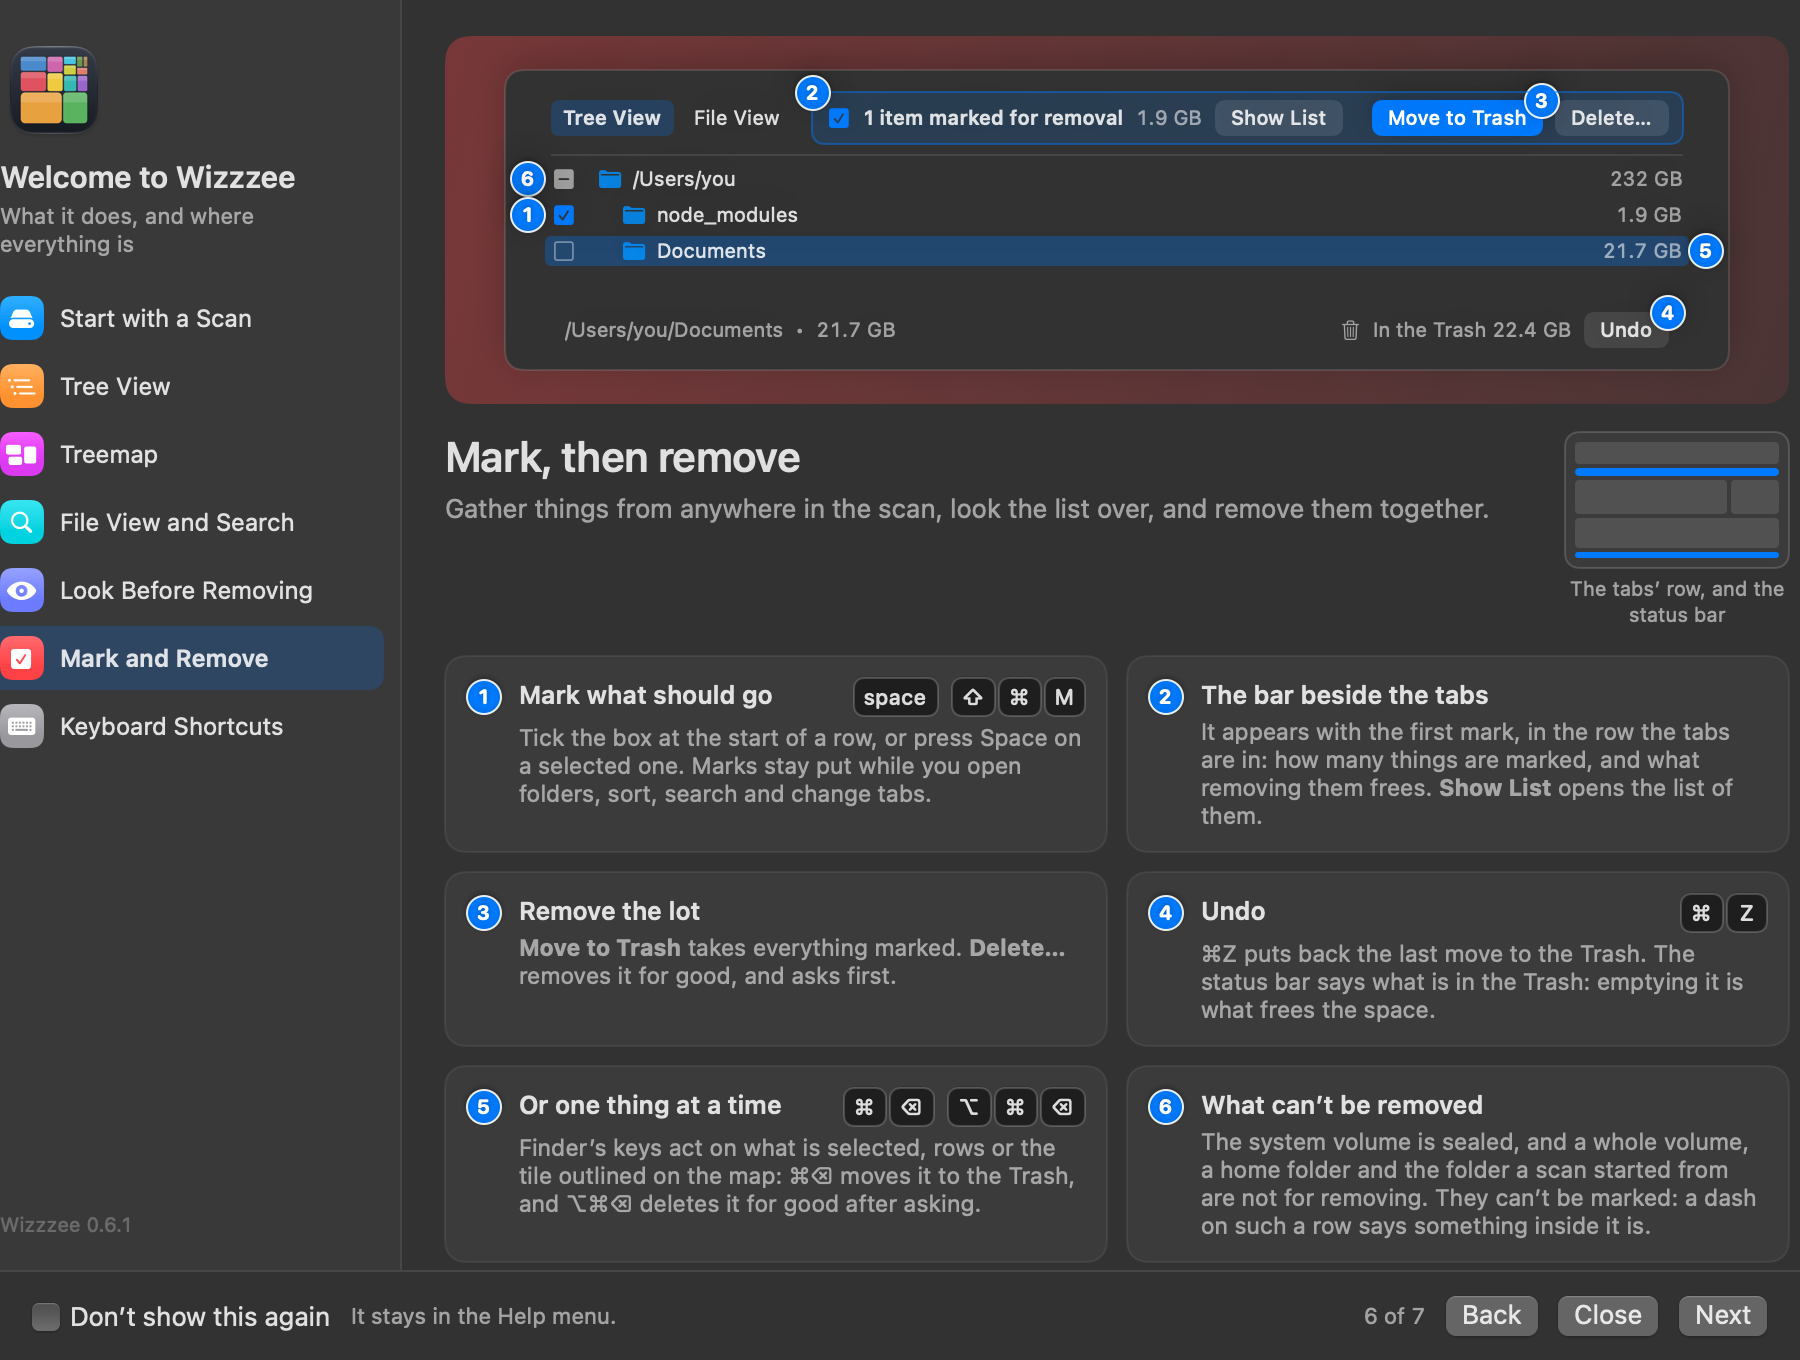
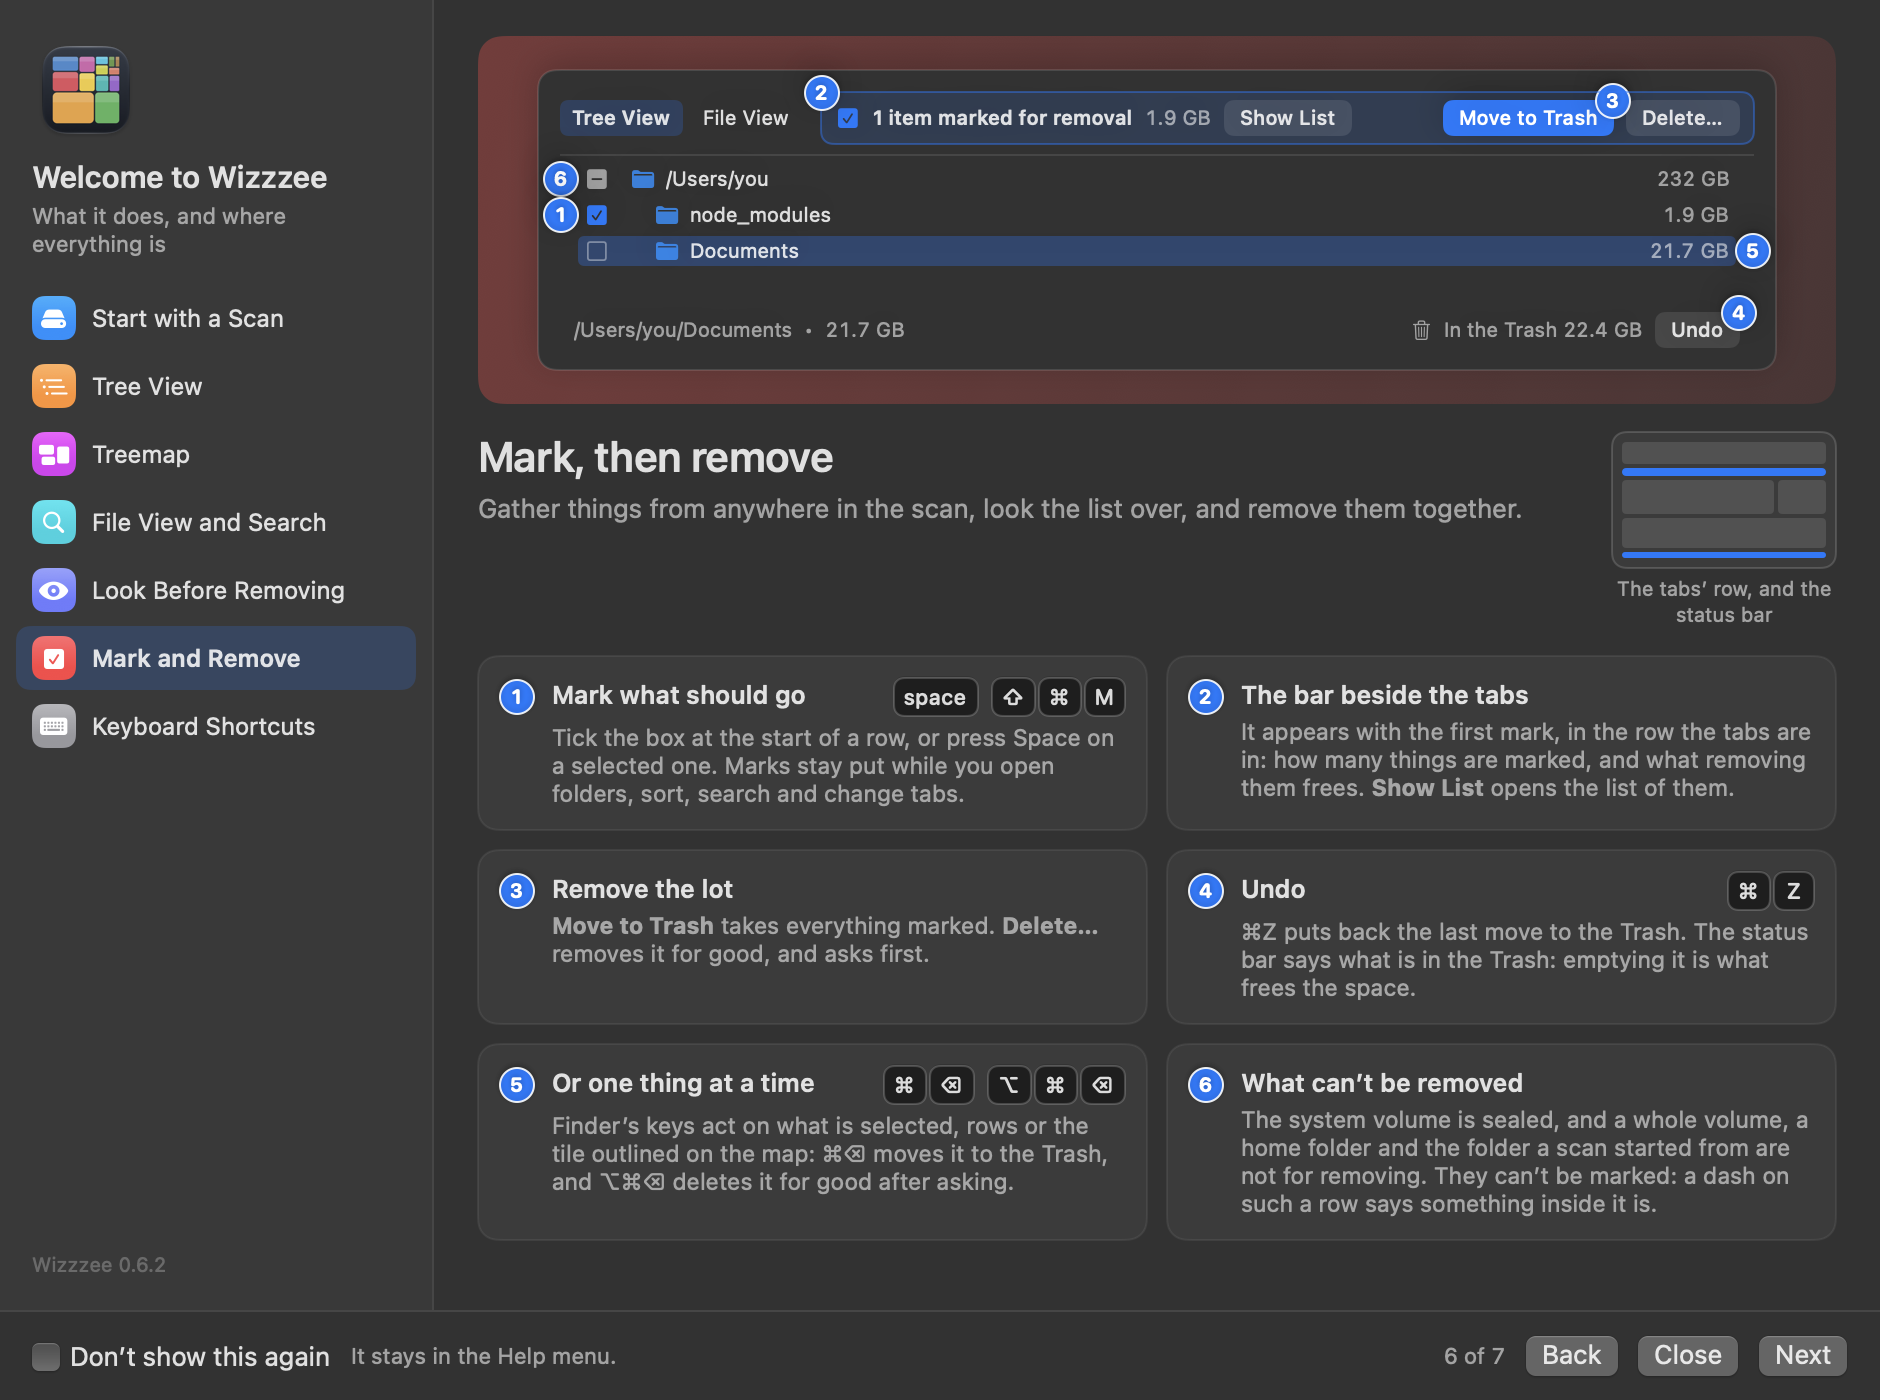
Release 0.6.2
Version 0.6.2, build 15, and the release notes for it.

One change since 0.6.1: the guide's page on marking and removing fits
inside the guide (#52). It was cut off at both sides and was the one
page that scrolled.

README: the picture of that page is redrawn from this build, and the
count of checks catches up with the checks.

diff --git a/docs/releases/v0.6.2.md b/docs/releases/v0.6.2.md
@@ -1,0 +1,37 @@
+# Wizzzee 0.6.2
+
+Wizzzee is a disk space analyzer for macOS in the shape of [WizTree](https://diskanalyzer.com/): a folder tree with sizes, a list of the biggest files, and a colored treemap you can click into. It scans a full startup disk — around 3.9 million files — in roughly 15 seconds.
+
+**This release fixes one page of the guide.** Nothing else in the app has changed.
+
+## The guide's page on marking fits the guide
+
+**Help ▸ Welcome to Wizzzee** has seven pages. The sixth, *Mark and Remove*, was drawn wrongly in 0.6.1:
+
+- **It was cut off at both sides.** The list of pages down the left had lost its margin, with the icon and the titles hard against the edge, and the picture and the cards ran to the right-hand edge with none either.
+- **It scrolled, and no other page does.** The last of its six cards ran off the foot of the guide.
+
+Both came from the picture at the head of that page. 0.6.1 redrew it with the tabs and the bar for the marks in one row, and that row cannot be squeezed: it was 33 points wider than the page had for it. The page grew to hold it and took the whole guide with it, past its own edges.
+
+- The picture now gives the room at its sides, which is there for the numbered dots beside its rows, to those rows only. The tabs' row has the picture's full width.
+- **The guide is a little bigger**: 940 by 700 points, from 900 by 680. That is what holds six cards without scrolling. The other pages have four cards and the same pictures, with a little more room around them.
+
+## Limits
+
+- **In a window at its shortest the guide is taller than the window**, and hangs about 40 points below its foot (it was about 20). All of it is still on screen and its buttons work.
+- **`⌘Q` does nothing while the guide is open.** A window with a sheet over it does not quit, and the guide is a sheet. Close the guide first — `Esc` does it — and then quit. This is in 0.6.0 and 0.6.1 as well.
+
+## Installing
+
+Download `Wizzzee-0.6.2-macos-universal.zip` below, unzip it, and move `Wizzzee.app` to Applications, replacing the old one.
+
+- **First launch.** The app is not notarized, so macOS blocks it the first time. Open it once, dismiss the warning, then go to **System Settings → Privacy & Security** and click **Open Anyway**. macOS asks only once.
+- **Full Disk Access has to be granted again.** macOS ties that permission to the exact build, so the grant from an earlier version does not carry over. In **System Settings → Privacy & Security → Full Disk Access**, remove the old Wizzzee entry and add the new app. Without it, Mail, Messages, Safari and other users' folders are skipped and the totals read low.
+
+It runs on macOS 14 or newer, on Apple silicon and Intel.
+
+## Internal
+
+A scroll view that scrolls up and down is still at least as wide as what is in it, so one row that could not be squeezed widened its page, and the page widened the guide inside a frame that was not going to give: the surplus was cut off, half at each side. That is why a picture that was too wide showed up as a margin missing from the list at the other side of the guide.
+
+Nothing had checked for it. The self-test asked that the guide came up at its size, and it did. It now lays out all seven pages and holds each one inside the guide, and what is on each inside its page with nothing to scroll to: three more checks, 766 from 763. Run against 0.6.1's layout, two of them fail.

diff --git a/README.md b/README.md
@@ -297,7 +297,7 @@ dist/Wizzzee.app/Contents/MacOS/Wizzzee --selftest
 ```
 
 `--selftest` builds a throwaway tree with known contents and checks the scanner
-and both delete paths against ground truth — 763 checks, no permissions needed.
+and both delete paths against ground truth — 766 checks, no permissions needed.
 CI runs it on every push, along with a universal-binary and signature check.
 
 ## Releasing
